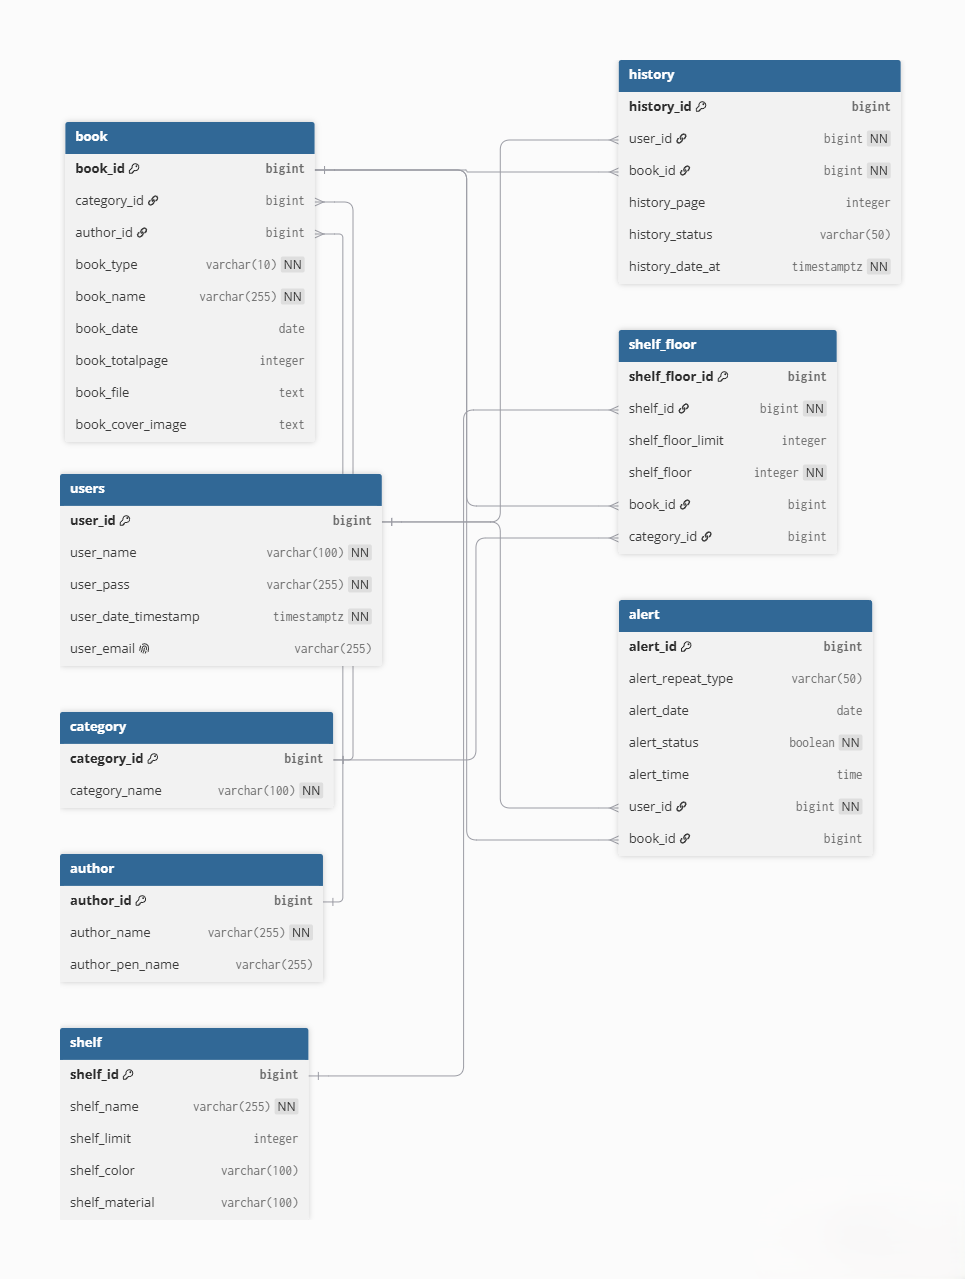
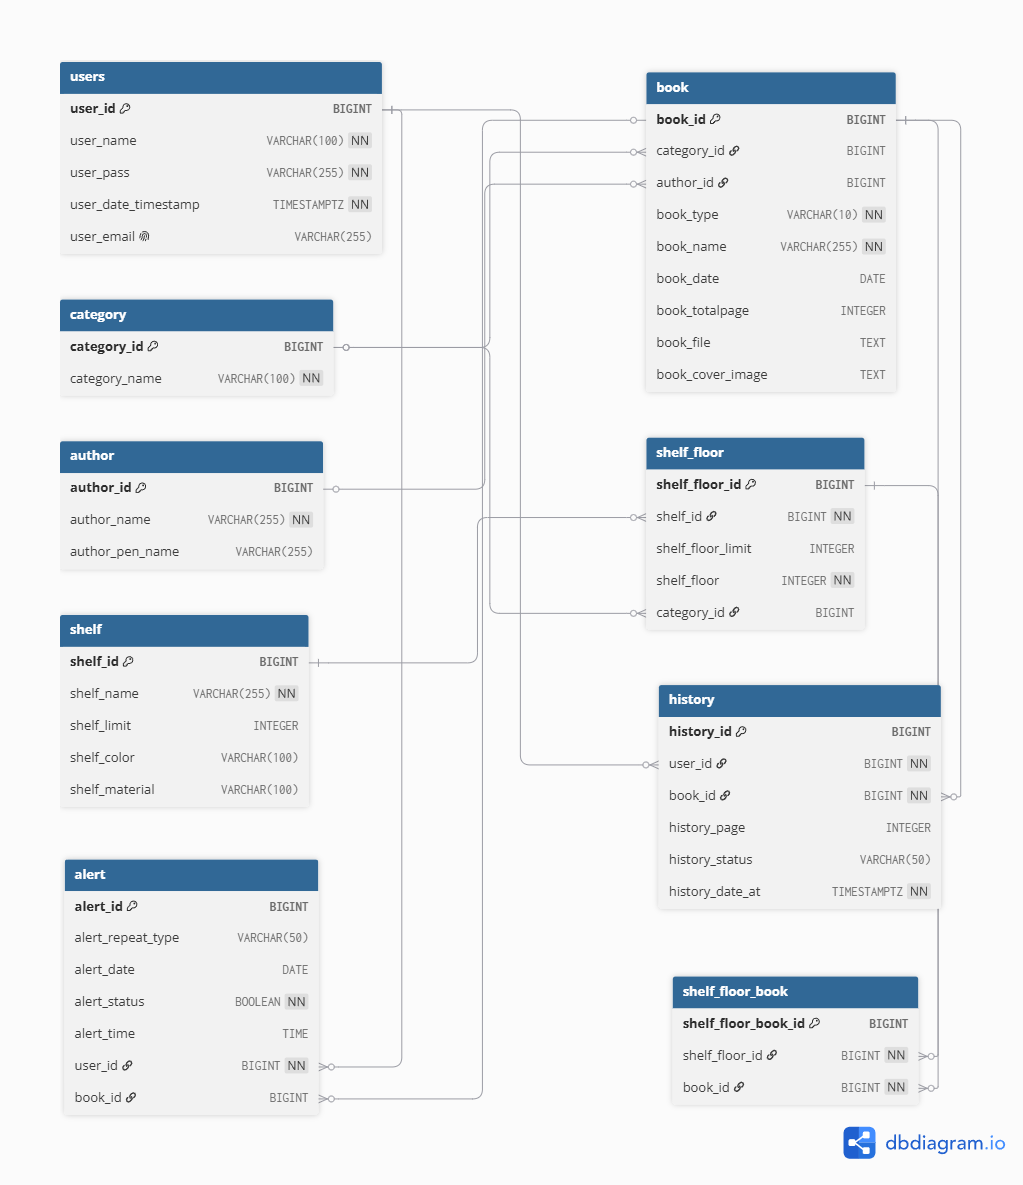
เก็บรายละเอียด

diff --git a/frontend/src/features/author/hooks/useAuthors.js b/frontend/src/features/author/hooks/useAuthors.js
@@ -15,6 +15,7 @@ export function useAuthors() {
   const [error, setError] = useState(null)
   const [isLoading, setIsLoading] = useState(true)
   const [isMutating, setIsMutating] = useState(false)
+  const [successMessage, setSuccessMessage] = useState(null)
 
   const loadAuthors = useCallback(async () => {
     try {
@@ -34,10 +35,12 @@ export function useAuthors() {
   async function addAuthor(authorName, authorPenName) {
     setIsMutating(true)
     setError(null)
+    setSuccessMessage(null)
 
     try {
       const author = await createAuthor(authorName, authorPenName)
       setAuthors((currentAuthors) => [...currentAuthors, author])
+      setSuccessMessage('เพิ่มผู้เขียนแล้ว')
       return author
     } catch (requestError) {
       setError(getErrorMessage(requestError))
@@ -50,6 +53,7 @@ export function useAuthors() {
   async function editAuthor(authorId, authorName, authorPenName) {
     setIsMutating(true)
     setError(null)
+    setSuccessMessage(null)
 
     try {
       const updatedAuthor = await updateAuthor(authorId, authorName, authorPenName)
@@ -60,6 +64,7 @@ export function useAuthors() {
             : author,
         ),
       )
+      setSuccessMessage('บันทึกการแก้ไขผู้เขียนแล้ว')
       return updatedAuthor
     } catch (requestError) {
       setError(getErrorMessage(requestError))
@@ -72,6 +77,7 @@ export function useAuthors() {
   async function removeAuthor(authorId) {
     setIsMutating(true)
     setError(null)
+    setSuccessMessage(null)
 
     try {
       const success = await deleteAuthor(authorId)
@@ -80,6 +86,7 @@ export function useAuthors() {
         setAuthors((currentAuthors) =>
           currentAuthors.filter((author) => String(author.author_id) !== String(authorId)),
         )
+        setSuccessMessage('ลบผู้เขียนแล้ว')
       }
 
       return success
@@ -95,14 +102,20 @@ export function useAuthors() {
     setError(null)
   }
 
+  function clearSuccessMessage() {
+    setSuccessMessage(null)
+  }
+
   return {
     addAuthor,
     authors,
     clearError,
+    clearSuccessMessage,
     editAuthor,
     error,
     isLoading,
     isMutating,
     removeAuthor,
+    successMessage,
   }
 }

diff --git a/frontend/src/features/Category/hooks/useCategories.js b/frontend/src/features/Category/hooks/useCategories.js
@@ -15,6 +15,7 @@ export function useCategories() {
   const [error, setError] = useState(null)
   const [isLoading, setIsLoading] = useState(true)
   const [isMutating, setIsMutating] = useState(false)
+  const [successMessage, setSuccessMessage] = useState(null)
 
   const loadCategories = useCallback(async () => {
     setIsLoading(true)
@@ -37,10 +38,12 @@ export function useCategories() {
   async function addCategory(categoryName) {
     setIsMutating(true)
     setError(null)
+    setSuccessMessage(null)
 
     try {
       const category = await createCategory(categoryName)
       setCategories((currentCategories) => [...currentCategories, category])
+      setSuccessMessage('เพิ่มหมวดหมู่แล้ว')
       return category
     } catch (requestError) {
       setError(getErrorMessage(requestError))
@@ -53,6 +56,7 @@ export function useCategories() {
   async function editCategory(categoryId, categoryName) {
     setIsMutating(true)
     setError(null)
+    setSuccessMessage(null)
 
     try {
       const updatedCategory = await updateCategory(categoryId, categoryName)
@@ -65,6 +69,7 @@ export function useCategories() {
         ),
       )
 
+      setSuccessMessage('บันทึกการแก้ไขหมวดหมู่แล้ว')
       return updatedCategory
     } catch (requestError) {
       setError(getErrorMessage(requestError))
@@ -77,6 +82,7 @@ export function useCategories() {
   async function removeCategory(categoryId) {
     setIsMutating(true)
     setError(null)
+    setSuccessMessage(null)
 
     try {
       const success = await deleteCategory(categoryId)
@@ -87,6 +93,7 @@ export function useCategories() {
             (category) => String(category.category_id) !== String(categoryId),
           ),
         )
+        setSuccessMessage('ลบหมวดหมู่แล้ว')
       }
 
       return success
@@ -102,15 +109,21 @@ export function useCategories() {
     setError(null)
   }
 
+  function clearSuccessMessage() {
+    setSuccessMessage(null)
+  }
+
   return {
     addCategory,
     categories,
     clearError,
+    clearSuccessMessage,
     editCategory,
     error,
     isLoading,
     isMutating,
     loadCategories,
     removeCategory,
+    successMessage,
   }
 }

diff --git a/frontend/src/features/book-arrangement/components/BookArrangementList.jsx b/frontend/src/features/book-arrangement/components/BookArrangementList.jsx
@@ -1,4 +1,4 @@
-import { Table, Tag } from 'antd'
+import { Button, Table, Tag, Typography } from 'antd'
 
 function renderBookType(bookType) {
   return bookType === 'file'
@@ -27,13 +27,28 @@ function renderShelfStatus(_, book) {
   )
 }
 
+function renderArrangementAction(_, book, onSelectBook) {
+  if (book.book_type !== 'physical') {
+    return <Typography.Text type="secondary">หนังสือไฟล์</Typography.Text>
+  }
+
+  if (book.shelf_floor_book_id) {
+    return <Typography.Text type="secondary">จัดวางแล้ว</Typography.Text>
+  }
+
+  return (
+    <Button onClick={() => onSelectBook(book)} size="small" type="primary">
+      เลือกชั้นวาง
+    </Button>
+  )
+}
+
 export function BookArrangementList({
   books,
   isLoading,
   onPageChange,
   onSelectBook,
   pagination,
-  selectedBookId,
 }) {
   const columns = [
     {
@@ -80,6 +95,12 @@ export function BookArrangementList({
       width: 200,
       render: renderShelfStatus,
     },
+    {
+      key: 'arrangement_action',
+      title: 'จัดวาง',
+      width: 150,
+      render: (_, book) => renderArrangementAction(_, book, onSelectBook),
+    },
   ]
 
   return (
@@ -96,16 +117,8 @@ export function BookArrangementList({
         showTotal: (total) => `ทั้งหมด ${total} รายการ`,
         total: pagination.total,
       }}
-      rowSelection={{
-        getCheckboxProps: (book) => ({
-          disabled: book.book_type !== 'physical' || Boolean(book.shelf_floor_book_id),
-        }),
-        onChange: (_, selectedRows) => onSelectBook(selectedRows[0] || null),
-        selectedRowKeys: selectedBookId ? [selectedBookId] : [],
-        type: 'radio',
-      }}
       rowKey="book_id"
-      scroll={{ x: 1080 }}
+      scroll={{ x: 1230 }}
     />
   )
 }

diff --git a/frontend/src/features/Category/pages/CategoryPage.jsx b/frontend/src/features/Category/pages/CategoryPage.jsx
@@ -13,23 +13,32 @@ export function CategoryPage() {
     addCategory,
     categories,
     clearError,
+    clearSuccessMessage,
     editCategory,
     error,
     isLoading,
     isMutating,
     removeCategory,
+    successMessage,
   } = useCategories()
 
-  useFeedbackMessage({ error, onErrorShown: clearError })
+  useFeedbackMessage({
+    error,
+    onErrorShown: clearError,
+    onSuccessShown: clearSuccessMessage,
+    successMessage,
+  })
 
   function openCreateModal() {
     clearError()
+    clearSuccessMessage()
     setEditingCategory(null)
     setIsModalOpen(true)
   }
 
   function openEditModal(category) {
     clearError()
+    clearSuccessMessage()
     setEditingCategory(category)
     setIsModalOpen(true)
   }

diff --git a/frontend/src/features/book-arrangement/components/BookArrangementFilters.jsx b/frontend/src/features/book-arrangement/components/BookArrangementFilters.jsx
@@ -17,11 +17,6 @@ function authorLabel(author) {
 export function BookArrangementFilters({ authors, categories, filters, isLoading, onApply }) {
   const [form] = Form.useForm()
 
-  function handleReset() {
-    form.setFieldsValue(initialValues)
-    onApply(initialValues)
-  }
-
   return (
     <Form
       form={form}
@@ -85,7 +80,6 @@ export function BookArrangementFilters({ authors, categories, filters, isLoading
         <Form.Item>
           <Space>
             <Button disabled={isLoading} htmlType="submit" type="primary">ค้นหา</Button>
-            <Button disabled={isLoading} onClick={handleReset}>ล้างตัวกรอง</Button>
           </Space>
         </Form.Item>
       </Space>

diff --git a/frontend/src/features/author/pages/AuthorPage.jsx b/frontend/src/features/author/pages/AuthorPage.jsx
@@ -13,23 +13,32 @@ export function AuthorPage() {
     addAuthor,
     authors,
     clearError,
+    clearSuccessMessage,
     editAuthor,
     error,
     isLoading,
     isMutating,
     removeAuthor,
+    successMessage,
   } = useAuthors()
 
-  useFeedbackMessage({ error, onErrorShown: clearError })
+  useFeedbackMessage({
+    error,
+    onErrorShown: clearError,
+    onSuccessShown: clearSuccessMessage,
+    successMessage,
+  })
 
   function openCreateModal() {
     clearError()
+    clearSuccessMessage()
     setEditingAuthor(null)
     setIsModalOpen(true)
   }
 
   function openEditModal(author) {
     clearError()
+    clearSuccessMessage()
     setEditingAuthor(author)
     setIsModalOpen(true)
   }

diff --git a/frontend/src/features/book-arrangement/pages/BookArrangementPage.jsx b/frontend/src/features/book-arrangement/pages/BookArrangementPage.jsx
@@ -57,7 +57,6 @@ export function BookArrangementPage() {
           onPageChange={(page, pageSize) => loadBooks({ page, pageSize })}
           onSelectBook={setSelectedBook}
           pagination={pagination}
-          selectedBookId={selectedBook?.book_id}
         />
       </Card>
 

diff --git a/frontend/src/main.jsx b/frontend/src/main.jsx
@@ -1,6 +1,7 @@
 import { StrictMode } from 'react'
 import { createRoot } from 'react-dom/client'
 import App from './app/App.jsx'
+import './index.css'
 
 createRoot(document.getElementById('root')).render(
   <StrictMode>

diff --git a/frontend/src/index.css b/frontend/src/index.css
@@ -1,0 +1,18 @@
+html,
+body,
+#root {
+  margin: 0;
+  min-height: 100%;
+  width: 100%;
+}
+
+*,
+*::before,
+*::after {
+  box-sizing: border-box;
+}
+
+body {
+  min-width: 320px;
+  background: #f4f4f2;
+}
